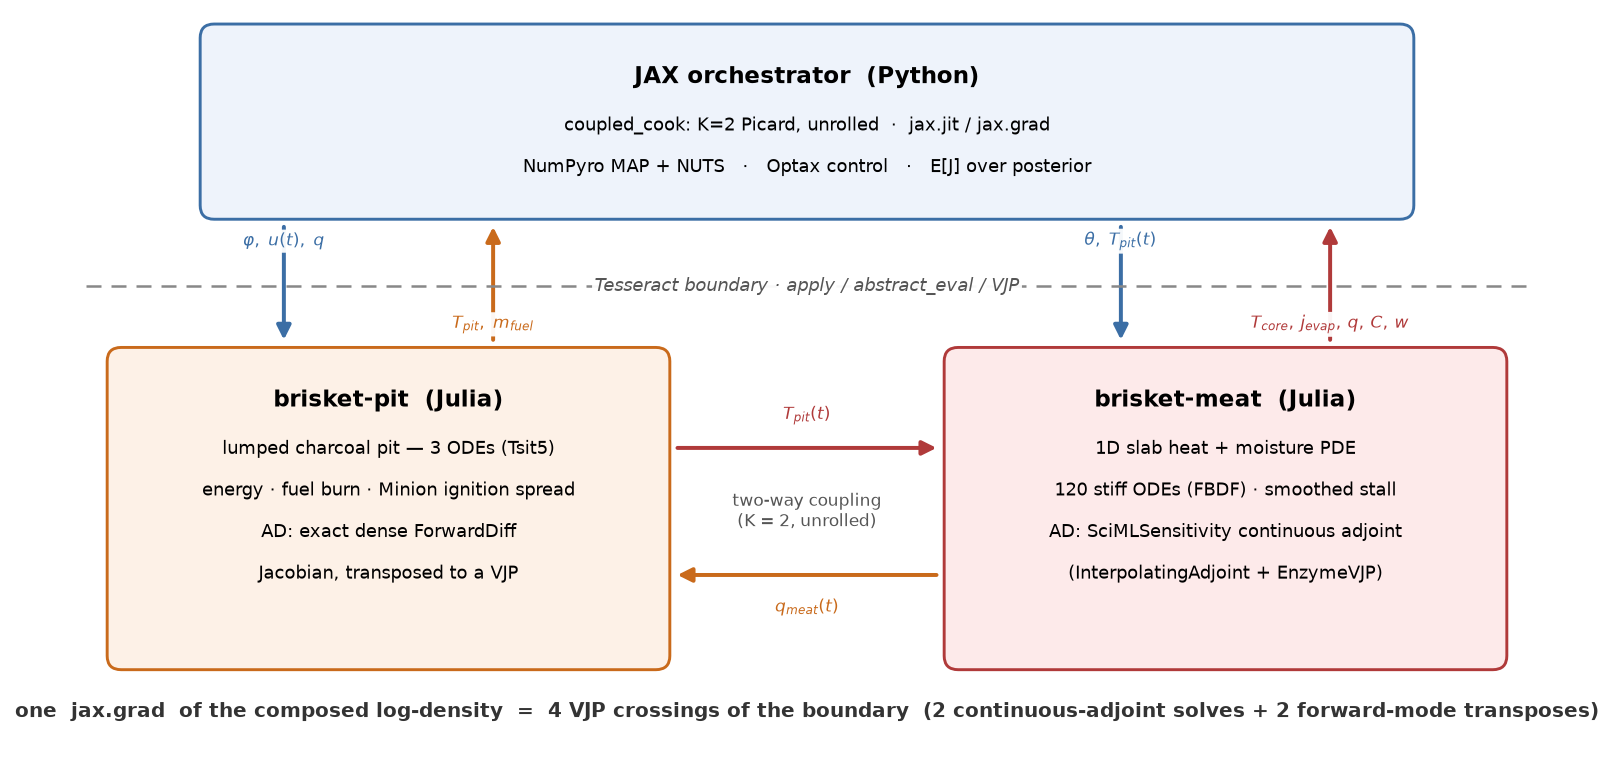
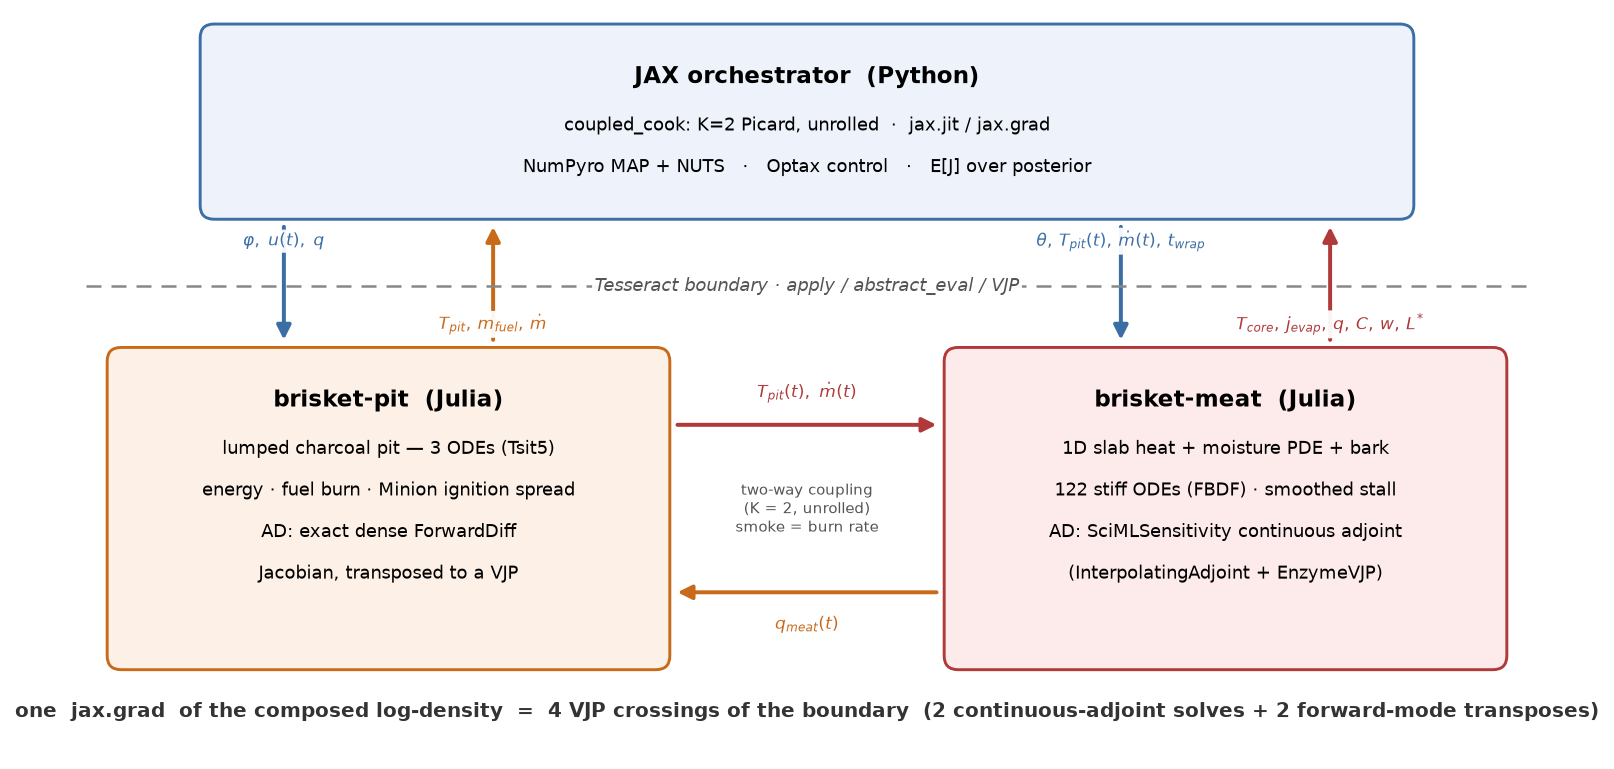
Bark merged to master: docs pass
Writeup: seventh gradient application (bark as a two-component
observable; composition rediscovers the traditional ~17 h unwrapped
low-and-slow; crutch reframed as closed-loop contingency; constants
explicitly uncalibrated). README: bark + fullplan rows and repro lines.
Roadmap: bark item -> calibration remainder (two-sided mahogany band
noted); MPC-with-wrap under MPC-as-controller with prerequisites.
Composition diagram: 122 ODEs + bark, mdot/smoke coupling, t_wrap/L*
crossings. Suites on merged master: Julia 68/68, app 21/21.

diff --git a/scripts/render_diagram.py b/scripts/render_diagram.py
@@ -67,8 +67,8 @@ box(0.6, 0.85, 4.6, 2.55, "#fdf1e7", "#c96a1b",
 # ---- meat tesseract (right) ----
 box(7.8, 0.85, 4.6, 2.55, "#fdeaea", "#b03a3a",
     "brisket-meat  (Julia)",
-    ["1D slab heat + moisture PDE",
-     "120 stiff ODEs (FBDF) · smoothed stall",
+    ["1D slab heat + moisture PDE + bark",
+     "122 stiff ODEs (FBDF) · smoothed stall",
      "AD: SciMLSensitivity continuous adjoint",
      "(InterpolatingAdjoint + EnzymeVJP)"])
 
@@ -82,21 +82,22 @@ PIT_R = 5.20 + PAD + CLR        # visible right edge of pit box
 MEAT_L = 7.80 - PAD - CLR       # visible left edge of meat box
 
 # ---- coupling arrows (in the gap between the boxes) ----
-arrow((PIT_R, 2.65), (MEAT_L, 2.65), "#b03a3a")
-label(6.5, 2.93, r"$T_{pit}(t)$", "#b03a3a")
-arrow((MEAT_L, 1.55), (PIT_R, 1.55), "#c96a1b")
-label(6.5, 1.27, r"$q_{meat}(t)$", "#c96a1b")
-label(6.5, 2.1, "two-way coupling\n(K = 2, unrolled)", "#555", size=8.0)
+arrow((PIT_R, 2.85), (MEAT_L, 2.85), "#b03a3a")
+label(6.5, 3.13, r"$T_{pit}(t),\ \dot m(t)$", "#b03a3a")
+arrow((MEAT_L, 1.40), (PIT_R, 1.40), "#c96a1b")
+label(6.5, 1.12, r"$q_{meat}(t)$", "#c96a1b")
+label(6.5, 2.12, "two-way coupling\n(K = 2, unrolled)\nsmoke = burn rate",
+      "#555", size=7.4)
 
 # ---- boundary crossings: primal down (blue), outputs/cotangents up ----
 arrow((2.0, JAX_BOT), (2.0, LOW_TOP), "#3b6ea5")
 label(2.0, 4.44, r"$\varphi,\; u(t),\; q$", "#3b6ea5")
 arrow((3.8, LOW_TOP), (3.8, JAX_BOT), "#c96a1b")
-label(3.8, 3.72, r"$T_{pit},\; m_{fuel}$", "#c96a1b")
+label(3.8, 3.72, r"$T_{pit},\, m_{fuel},\, \dot m$", "#c96a1b")
 arrow((9.2, JAX_BOT), (9.2, LOW_TOP), "#3b6ea5")
-label(9.2, 4.44, r"$\theta,\; T_{pit}(t)$", "#3b6ea5")
+label(9.2, 4.44, r"$\theta,\, T_{pit}(t),\, \dot m(t),\, t_{wrap}$", "#3b6ea5")
 arrow((11.0, LOW_TOP), (11.0, JAX_BOT), "#b03a3a")
-label(11.0, 3.72, r"$T_{core},\, j_{evap},\, q,\, C,\, w$", "#b03a3a")
+label(11.0, 3.72, r"$T_{core},\, j_{evap},\, q,\, C,\, w,\, L^{*}$", "#b03a3a")
 
 # ---- gradient annotation (its own band at the bottom) ----
 ax.text(6.5, 0.32,

diff --git a/docs/writeup.md b/docs/writeup.md
@@ -9,11 +9,13 @@ heat conduction and moisture transport with surface evaporation — produce the
 famous **stall**: a multi-hour plateau in internal temperature caused by
 evaporative cooling. We built both solvers in Julia, composed them through
 Tesseract into a single end-to-end differentiable function under JAX, and used
-the gradients six ways: MAP and full NUTS Bayesian calibration (synthetic
+the gradients seven ways: MAP and full NUTS Bayesian calibration (synthetic
 recovery study **and** a real 19-hour cook log), damper-schedule optimization,
 schedule optimization *in expectation over the posterior*, receding-horizon
-MPC with disturbance rejection, and cook-time planning — duration chosen by
-cook quality, start time interrogated against the posterior. This document follows the six judging criteria in
+MPC with disturbance rejection, cook-time planning — duration chosen by cook
+quality, start time interrogated against the posterior — and a mechanistic
+**bark model** (Maillard + smoke deposition) whose color gradients flow
+through both components and complete the quality objective. This document follows the six judging criteria in
 order.
 
 ## 1. Composition across a real boundary
@@ -175,6 +177,30 @@ above). Caveat: absolute hours inherit the uncalibrated doneness scale
 (fixed literature collagen kinetics; C = 0.90 as "probe tender" is not yet
 anchored by texture data).
 
+**The bark model — quality's third leg** (`figures/bark_model.png`,
+`figures/fullplan.png`): two surface states inside the meat solve — Maillard
+browning (first-order in lightness, Arrhenius × a water-activity bell via a
+smooth sorption isotherm; bread-crust kinetics lineage) and smoke-phenolic
+deposition, which requires a *moist* surface and smoke flux. The smoke flux
+is the pit's **exact burn rate**, exported as a new output and passed as a
+forcing to the meat — making bark color a genuinely **two-component
+observable**: `d(color)/d(damper)` crosses the boundary through the pit's
+ForwardDiff VJP and the meat's continuous adjoint (composed FD-verified).
+Constants are literature-anchored and explicitly uncalibrated — the
+designed calibration experiment (hourly photos with a color card; a
+wrapped/unwrapped cook pair to separate smoke color from Maillard) is
+specified in `docs/bark_plan.md`. Forward validation reproduces pitmaster
+lore mechanistically: hot-and-fast Maillard-saturates, low-and-slow is
+smoke-dominated, wrapping freezes bark. With color completing the quality
+vector, the full composition — duration × wrap × schedule jointly optimized
+— **rediscovers traditional practice**: a ~17 h low-and-slow cook, wrap
+never chosen at any duration (the reference real cook: 19 h, unwrapped).
+The Texas crutch drops out of the leisure-optimal plan and re-emerges as
+what it actually is — a closed-loop contingency tool for cooks under
+deadline pressure (the MPC-with-wrap demo is roadmapped). Absolute
+durations are conditional on placeholder quality weights; the structure of
+the conclusion is not.
+
 ## 3. Why Tesseract is load-bearing
 
 The meat PDE is stiff with a moving evaporation front; the correct
@@ -235,11 +261,11 @@ The war stories are documented in `docs/verification.md`; highlights:
 
 The model is honest about its scope. Pit humidity is fixed (a water pan would
 invalidate the calibrated evaporation coefficient — the k_m confound named in
-§3); the Texas-crutch wrap is now modeled — a smooth surface-BC blend
-(evaporation suppression, emissivity and convection changes) with a
-*differentiable wrap time*, so "when to wrap" is optimized jointly with the
-vents — but its foil constants are literature-fixed pending a wrapped-cook
-log: our calibration cook was unwrapped, and since wrapped logs document the
+§3); the Texas-crutch wrap and bark (Maillard + smoke deposition) are now
+modeled — smooth blends and surface states with a *differentiable wrap
+time*, so "when to wrap" is optimized jointly with the vents — but their
+constants are literature-fixed pending calibration data (wrapped-cook log;
+bark photos): our calibration cook was unwrapped, and since wrapped logs document the
 wrap moment, the wrap event is a known-input step-response experiment
 waiting for the two-cook joint fit; "doneness" is
 collagen conversion — a good proxy for probe-tender, silent on bark and

diff --git a/docs/roadmap.md b/docs/roadmap.md
@@ -94,7 +94,13 @@ bark chemistry without calibration data.
 1. **Close the loop for real: MPC as the controller.** Productionize the
    receding-horizon re-planner; integrate with HeaterMeter (open-source fan
    controller — our planner can sit above its PID as the planning layer).
-   The library stops advising and starts piloting.
+   The library stops advising and starts piloting. Includes
+   **MPC-with-wrap**: the crutch as a closed-loop contingency (the full
+   composition showed it never enters the leisure-optimal plan; it exists
+   to rescue cooks under deadline pressure). Prerequisites: fix the meat
+   VJP field-IC gap (documented at `_meat_vjp`) and bark-state continuity
+   across the receding-horizon handoff; wrap irreversibility (t_wrap
+   frozen once executed).
 2. **Monolith / Dyad exploration: move the Tesseract boundary to the
    edge.** The K=2 Picard split exists only because the pit/meat boundary
    bisects the physics; a monolithic Julia core (one ~123-state DAE, one
@@ -158,10 +164,14 @@ bark chemistry without calibration data.
    before and after; mass loss vs salting time is the curve the WHC
    coupling fits. Non-salt rub effects (sugar browning, emissivity, surface
    mass transfer) belong to the bark item below, not here.
-7. **Differentiable bark model.** Maillard/browning kinetics submodel driven
-   by the existing surface T/W histories (bread-crust color models
-   transfer); calibrate against standardized-photo colorimetry (L\*a\*b\*
-   index, color card) and optionally penetration-force texture. To our
+7. **Bark model calibration.** The mechanistic bark model LANDED during
+   the hackathon (branch `bark-model`, merged: Maillard + smoke-deposition
+   states, smoke flux = pit burn rate, full composition demo). Remaining:
+   calibrate against standardized-photo colorimetry (hourly lid-open photos
+   + color card; wrapped/unwrapped pair separates ΔL_S from ΔL_B — plan in
+   `docs/bark_plan.md`), replace the one-sided paleness penalty with a
+   two-sided mahogany band (the softplus tail currently encodes
+   darker-is-better), and optionally penetration-force texture. To our
    knowledge unpublished territory.
 8. **Fidelity where new sensors justify it.** Newman product-rule quasi-3D
    center-line correction (~3× cost, differentiable, cheap taste of 3D);

diff --git a/README.md b/README.md
@@ -39,7 +39,9 @@ of a SciMLSensitivity continuous adjoint exposed as a Tesseract
 | **Robust control** | expected-objective schedule halves doneness spread across the posterior: 0.780±0.123 → 0.863±0.069 ([comparison](figures/control_robust.png)) |
 | **MPC** | hourly re-planning absorbs an unmodeled −15 K cold front: doneness 0.92 vs 0.68 open-loop ([demo](figures/mpc_demo.png)) |
 | **Cook-time planning** | quality picks the duration (9 h, hot-and-fast); the posterior honestly refuses to certify an open-loop start ([figure](figures/timeplan.png)) |
-| **Differentiable Texas crutch** | wrap time optimized jointly with the vents: wrap at 6 h → doneness 0.82→0.96, juiciness 0.40→0.62 ([figure](figures/wraptime.png)) |
+| **Differentiable Texas crutch** | wrap time optimized jointly with the vents against predicted bark color ([figure](figures/wraptime.png)) |
+| **Mechanistic bark model** | Maillard + smoke deposition as meat states, smoke flux = pit burn rate; hot-fast vs low-slow vs wrap reproduced ([figure](figures/bark_model.png)) |
+| **The full composition** | duration × wrap × vents jointly optimized rediscovers the traditional ~17 h unwrapped low-and-slow ([figure](figures/fullplan.png)) |
 | **Animated cook** | calibrated T/W fields evolving through the real cook ([gif](figures/cook_animation.gif)) |
 
 ## Layout
@@ -80,6 +82,8 @@ uv run python ../scripts/run_nuts.py --real     # real cook NUTS (long; checkpoi
 uv run python ../scripts/run_mpc.py             # receding-horizon MPC demo
 uv run python ../scripts/run_timeplan.py        # cook-time-as-decision-variable
 uv run python ../scripts/run_wraptime.py        # differentiable wrap-time (crutch)
+uv run python ../scripts/run_bark.py            # bark model forward validation
+uv run python ../scripts/run_fullplan.py        # duration x wrap x schedule
 uv run python ../scripts/render_animation.py    # animated calibrated cook
 ```
 
